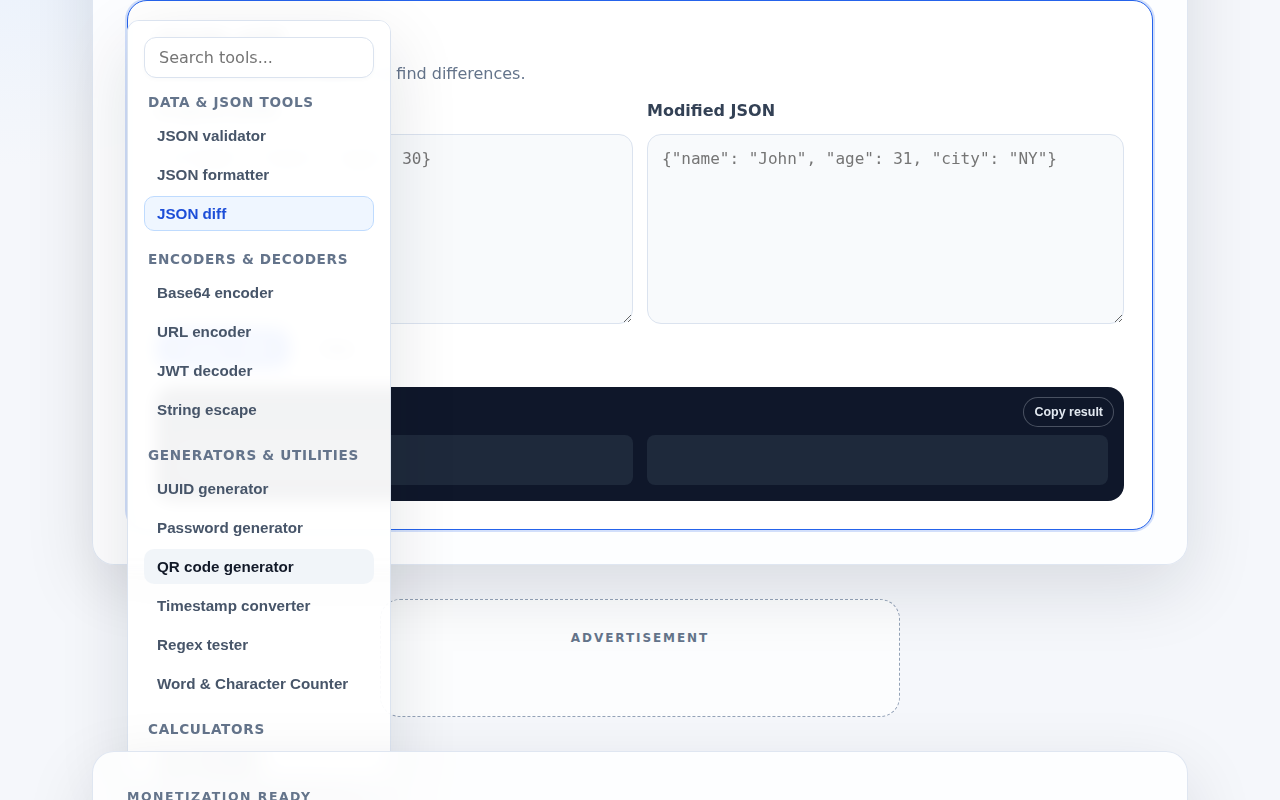
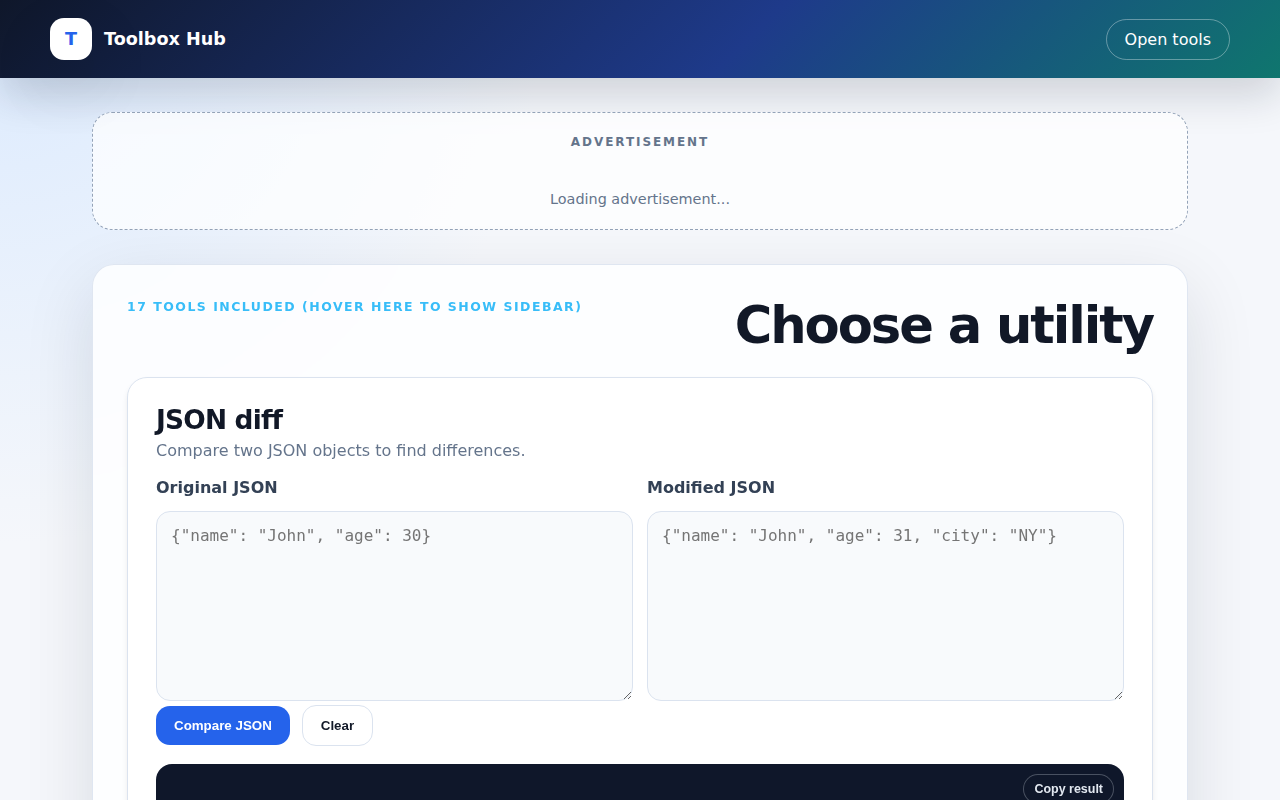
Fix sidebar toggle area in styles.css
Modified the CSS selector triggering the sidebar uncollapse logic from targeting the entire `.tool-layout` section to exclusively targeting the dedicated `.hover-zone` element along with the `.tool-nav-container` itself. This corrects the UI bug where hovering over any part of the main layout, such as tools and advertisements, would unintentionally expand the sidebar.

diff --git a/styles.css b/styles.css
@@ -55,7 +55,7 @@ main { padding: 34px clamp(18px, 4vw, 42px) 64px; }
 .tool-nav-container { flex: 0 0 280px; display: flex; flex-direction: column; gap: 16px; position: sticky; top: 20px; max-height: calc(100vh - 40px); overflow-y: auto; padding-right: 8px; transition: all 0.3s cubic-bezier(0.4, 0, 0.2, 1); opacity: 1; transform: translateX(0); z-index: 10; background: rgba(255,255,255,.95); backdrop-filter: blur(8px); -webkit-backdrop-filter: blur(8px); border-radius: 12px; box-shadow: 0 4px 20px rgba(0,0,0,0.08); padding-left: 8px; padding-top: 8px; padding-bottom: 8px;}
 .tool-nav-container.collapsed { position: absolute; transform: translateX(-120%); opacity: 0; pointer-events: none; }
 .hover-zone { position: absolute; left: 0; top: 0; bottom: 0; width: 40px; z-index: 20; }
-.tool-layout:hover .tool-nav-container.collapsed, .tool-nav-container.collapsed:hover { transform: translateX(0); opacity: 1; pointer-events: auto; box-shadow: var(--shadow); border: 1px solid var(--border); padding: 16px; }
+.hover-zone:hover + .tool-nav-container.collapsed, .tool-nav-container.collapsed:hover { transform: translateX(0); opacity: 1; pointer-events: auto; box-shadow: var(--shadow); border: 1px solid var(--border); padding: 16px; }
 .search-container input { width: 100%; border: 1px solid var(--border); border-radius: 12px; padding: 10px 14px; font: inherit; background: var(--panel); color: var(--text); box-shadow: 0 2px 4px rgba(0,0,0,0.02); }
 .search-container input:focus { outline: 2px solid var(--primary); outline-offset: -1px; border-color: transparent; }
 .tool-nav { display: flex; flex-direction: column; gap: 20px; }

diff --git a/verify_collapse.py b/verify_collapse.py
@@ -9,16 +9,19 @@ async def main():
 
         # Select a tool (JSON diff)
         await page.click("button[data-tool='json-diff']")
+
+        # Move mouse away to let it collapse
+        await page.hover("h2#tools-title")
         await page.wait_for_timeout(500)
         await page.screenshot(path="collapsed.png")
 
         # Hover over hover-zone
-        await page.hover(".hover-zone")
+        await page.hover(".hover-zone", position={"x": 10, "y": 100})
         await page.wait_for_timeout(500)
         await page.screenshot(path="hovered_zone.png")
 
         # Hover away
-        await page.hover(".site-header")
+        await page.hover("h2#tools-title")
         await page.wait_for_timeout(500)
         await page.screenshot(path="unhovered_zone.png")
 
